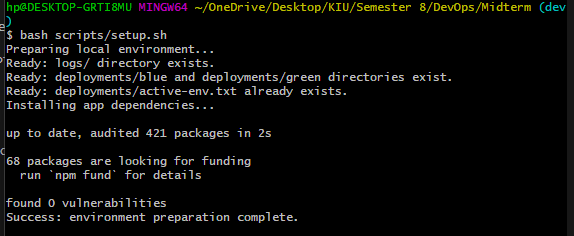
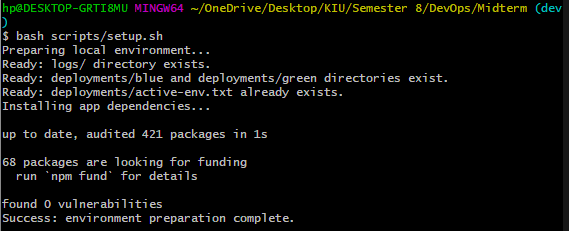
finalize README.md and add screenshots

Changed region(s): [[0.0, 0.0, 0.9859, 1.0]]

diff --git a/README.md b/README.md
@@ -76,7 +76,7 @@ Recommended workflow:
 5. GitHub Actions runs linting and tests.
 6. Merge to `main` only after CI passes.
 
-The CI workflow is configured to run on pushes and pull requests targeting `main` and `dev`.
+The CI workflow runs automatically on every push and pull request.
 
 ## Step-by-Step Setup
 
@@ -138,7 +138,7 @@ cd app
 npm run lint
 ```
 
-## How to Run Setup Automation
+## Infrastructure as Code & Automation
 
 From the repository root:
 
@@ -146,11 +146,11 @@ From the repository root:
 bash scripts/setup.sh
 ```
 
-This prepares the local folder structure and installs dependencies for the app.
+This script is the project's automation/IaC step. It prepares the local folder structure, creates the active environment configuration file, and installs dependencies for the app with one command.
 
-## Blue-Green Deployment
+## Continuous Deployment: Local Production
 
-For the blue-green simulation, browser traffic goes through a local proxy:
+The project deploys to a local "Production" environment using a blue-green deployment simulation. Browser traffic goes through a local proxy:
 
 ```text
 http://localhost:3000
@@ -258,15 +258,25 @@ GitHub Actions runs linting and tests on pushes and pull requests to `main` and 
 
 ```mermaid
 flowchart TD
-    A[Developer pushes code or opens pull request] --> B[GitHub Actions CI starts]
-    B --> C[Checkout repository]
-    C --> D[Set up Node.js]
-    D --> E[Install dependencies inside app/]
-    E --> F[Run npm run lint]
-    F --> G[Run npm test]
-    G --> H{Checks passed?}
-    H -->|Yes| I[Branch is ready to merge]
-    H -->|No| J[Fix issues and push again]
+    A[Developer works on dev branch] --> B[Push or pull request]
+    B --> C[GitHub Actions CI]
+    C --> D[Install dependencies inside app/]
+    D --> E[Run ESLint]
+    E --> F[Run Jest tests]
+    F --> G{CI passed?}
+    G -->|No| H[Fix issues and push again]
+    G -->|Yes| I[Merge dev into main]
+    I --> J[Run setup.sh]
+    J --> K[Run deploy-blue-green.sh]
+    K --> L[Deploy to inactive environment]
+    L --> M[Run target /health check]
+    M --> N{Healthy?}
+    N -->|No| O[Keep current active environment]
+    N -->|Yes| P[Update active-env.txt]
+    P --> Q[Proxy routes localhost:3000 to active environment]
+    Q --> R[Run health-check.sh monitoring]
+    O --> S[Run rollback.sh if needed]
+    R --> S
 ```
 
 ## Screenshots
@@ -291,6 +301,10 @@ Blue-green deployment:
 
 ![Blue Green Deployment](screenshots/blue-green-deployment.png)
 
+Proxy routing:
+
+![Proxy Routing](screenshots/proxy-routing.png)
+
 Rollback:
 
 ![Rollback](screenshots/rollback.png)
@@ -299,6 +313,10 @@ Monitoring:
 
 ![Monitoring](screenshots/monitoring.png)
 
+Health log:
+
+![Health Log](screenshots/health-log.png)
+
 ## Final Repository Link
 
-Repository URL: `<final-repository-link>`
+Repository URL: <https://github.com/Nika1337/devops-midterm>